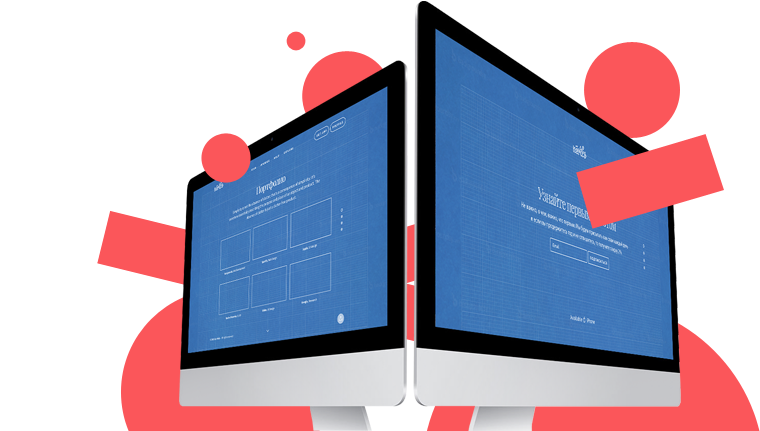
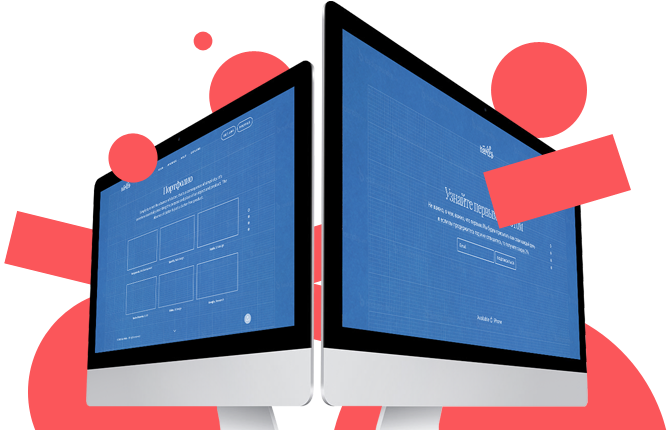
final

diff --git a/setka.css b/setka.css
@@ -74,7 +74,7 @@ header{
     width: 410px;
 }
 .slide__image2{
-    width: 760px;
+    width: 640px;
     height: 430px;
 }
 .slide2{
@@ -180,13 +180,14 @@ justify-content: space-between;
     background-color: #ffffff;
     position: absolute;
     text-align: center;
+    box-shadow: 0px 0px 2px rgba(0,0,0,.8);
 }
 .contacts-address{
     text-align: left;
     padding-left: 65px;
 }   
 .write__us{
-    padding: 30px;
+    padding-right: 100px;
     padding-left: 100px;
     margin-left: 100px;
     display: none;
@@ -198,10 +199,10 @@ justify-content: space-between;
     position: fixed;
     top: 5%;
     left: 0;
-    width: 900px;
+    width: 760px;
     height: 500px;
     background-color:white;
-    box-shadow: 0 0 15px rgba(0,0,0,0.4);
+    box-shadow: 0 0 15px rgba(90, 70, 70, 0.7);
 }
 .name-email{
     width: 760px;
@@ -210,6 +211,7 @@ justify-content: space-between;
     justify-content: space-between;
 }
 .name{
+    resize: none;
     width: 360px;
     height: 46px;
 }
@@ -218,6 +220,7 @@ justify-content: space-between;
     height: 80px;
 }
 .E-mail{
+    resize: none;
     width: 360px;
     height: 46px;
 }
@@ -226,6 +229,7 @@ justify-content: space-between;
     height: 80px;
 }
 .letter{
+    resize: none;
     width: 760px;
     height: 115px;
     text-align: start;
